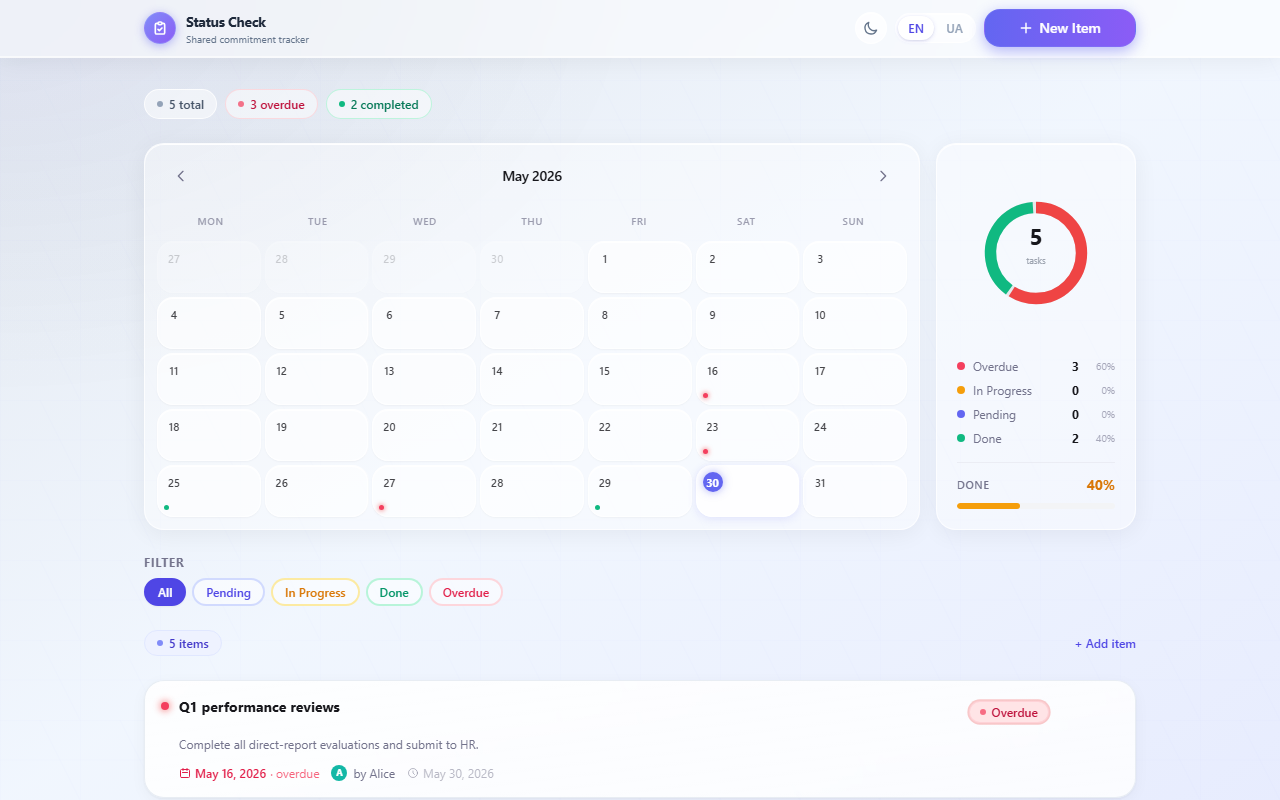
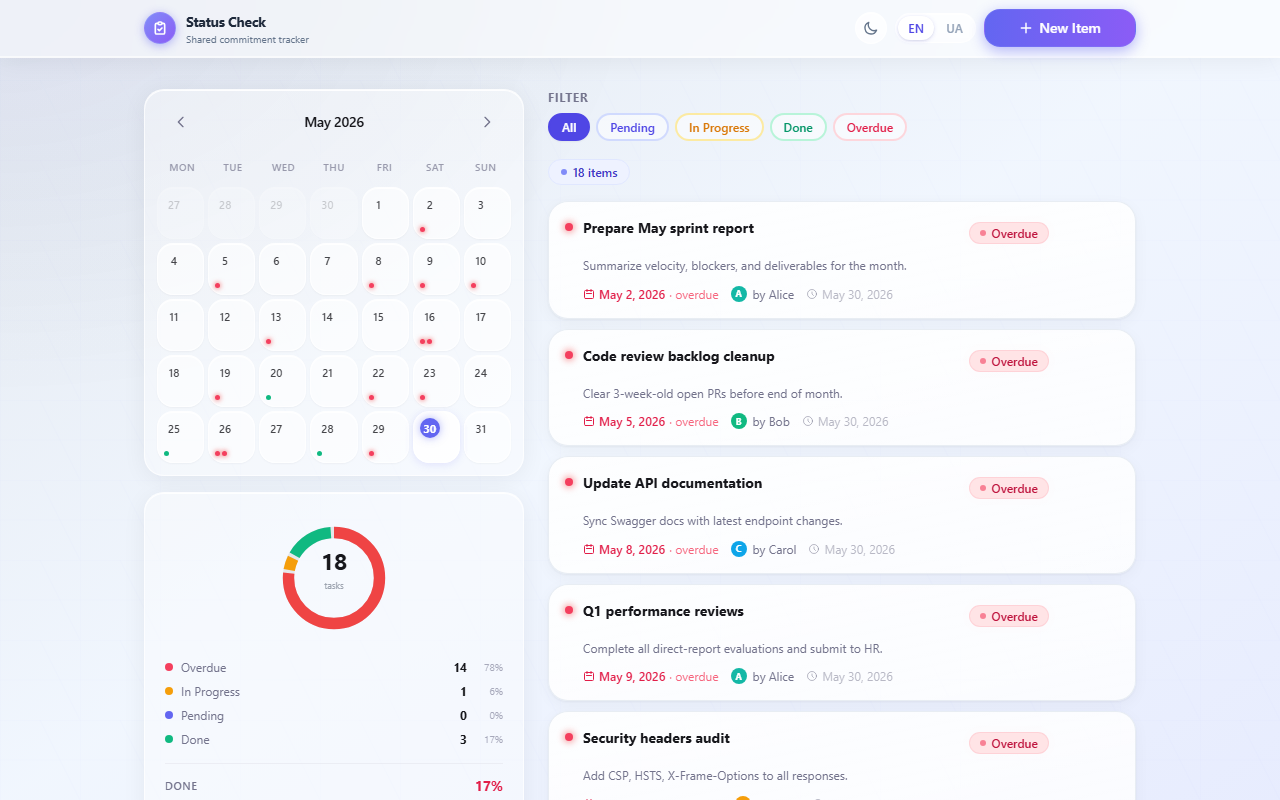
docs: fresh screenshots (desktop + mobile light/dark), updated README

diff --git a/README.md b/README.md
@@ -9,12 +9,18 @@ A shared commitment and deadline tracker — know what everyone is working on, w
 ## Screenshots
 
 ### Desktop — Light mode
-![Dashboard light](https://status-check-henna.vercel.app/screenshots/ss-dashboard-light.png)
+![Desktop light](https://status-check-henna.vercel.app/screenshots/ss-dashboard-light.png)
 
 ### Desktop — Dark mode
-![Dashboard dark](https://status-check-henna.vercel.app/screenshots/ss-dashboard-dark.png)
+![Desktop dark](https://status-check-henna.vercel.app/screenshots/ss-dashboard-dark.png)
 
-### Create new item
+### Mobile — Light mode
+![Mobile light](https://status-check-henna.vercel.app/screenshots/ss-mobile-light.png)
+
+### Mobile — Dark mode
+![Mobile dark](https://status-check-henna.vercel.app/screenshots/ss-mobile-dark.png)
+
+### Create new item (AI smart input)
 ![New item](https://status-check-henna.vercel.app/screenshots/ss-new-item.png)
 
 ---